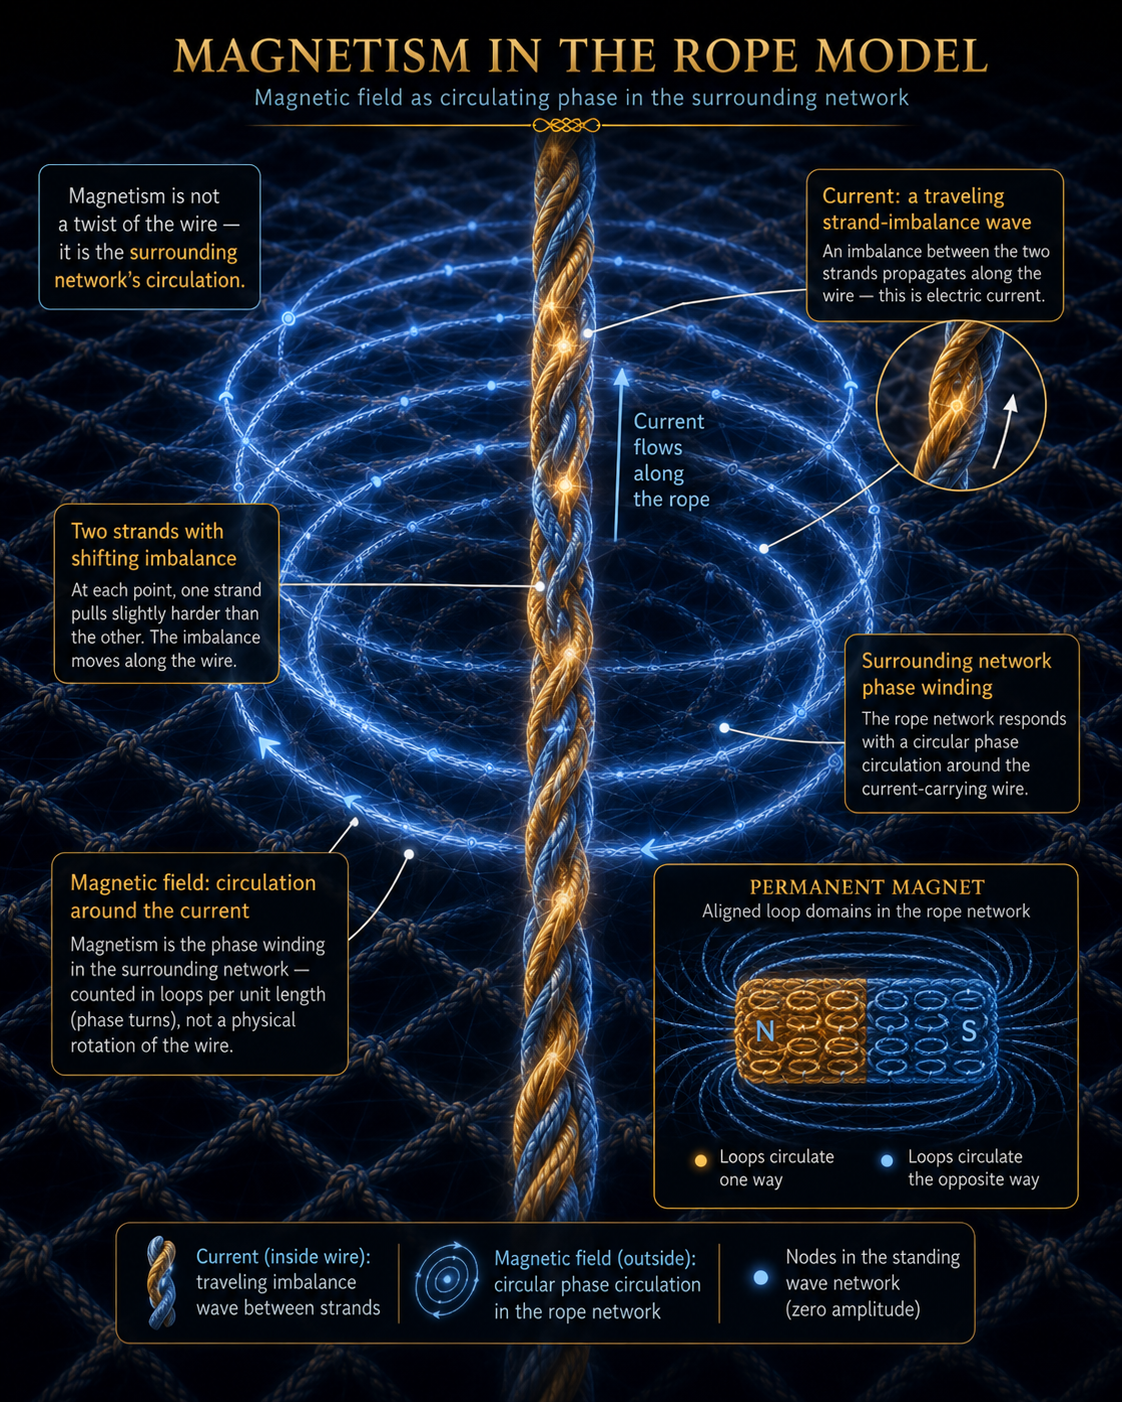
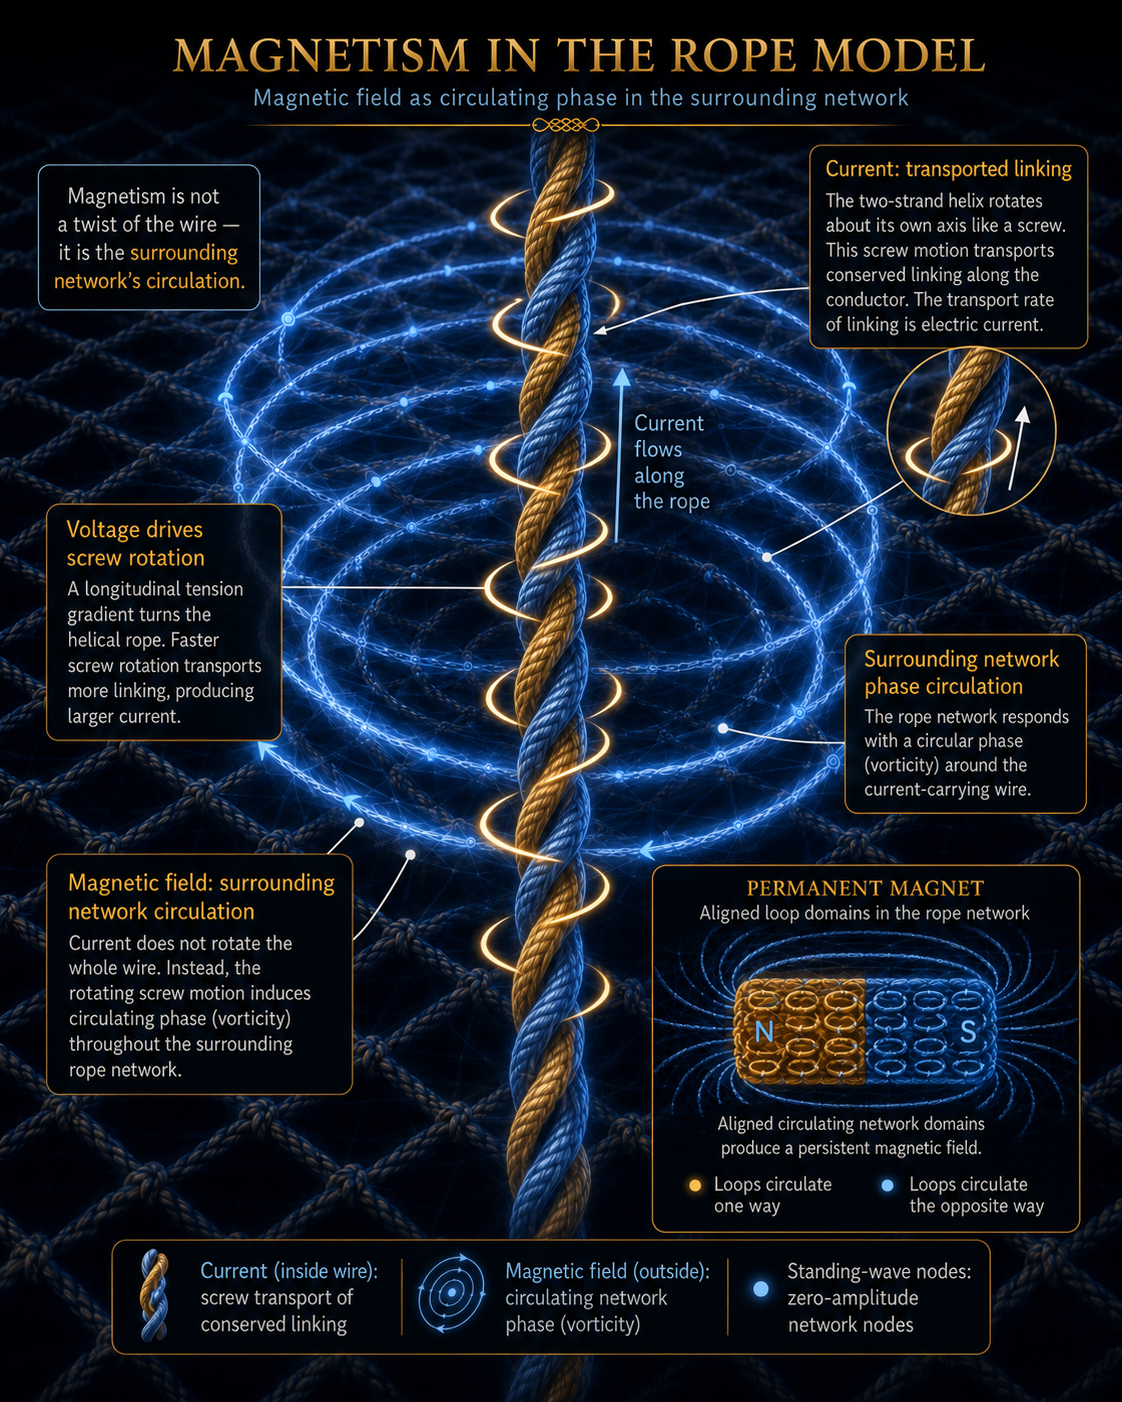
The first dynamical Bell violation, and the mechanism of the Born rule

Changed region(s): [[0.0312, 0.0307, 0.9982, 1.0], [0.8422, 0.3987, 0.9046, 0.4294], [0.3119, 0.7361, 0.3431, 0.7668]]

diff --git a/figures/README.md b/figures/README.md
@@ -12,12 +12,15 @@ screw-sense fixes circulation type and sign (not the dynamical drive). Voltage-a
 gradient and Ohm's-law framing are the sector's modeled interpretation.
 
 ## rope_magnetism.png — Magnetism as circulating phase
-Magnetic field as phase winding (loops per unit length) in the surrounding network; current as
-a traveling strand-imbalance. **Status: corpus-faithful.** Backed by **EM-012 (Derived)** and
-**EM-013 (Derived)** (magnetic force between currents and the Lorentz force, both reproduced),
-and **EM-RECON-001/002 (Modeled)** which reconcile the strand-imbalance and transported-linking
-pictures as *the same field at two levels* — the electricity and magnetism figures are those two
-levels, not a contradiction. Permanent-magnet domains are illustrative.
+Magnetic field as phase circulation (vorticity) in the surrounding network; current as the
+screw-transport of conserved linking along the two-strand helix; voltage as the tension gradient
+that drives the screw. **Status: corpus-faithful, and now grounded in the Derived layer.** This
+revision (v2) upgrades the current description from the earlier "traveling strand-imbalance"
+(reconciliation-layer, EM-RECON-001 Modeled) to "transported linking via screw rotation," landing
+directly on **EM-008 (Derived)** and **EM-014 (Derived)** — and it thereby MATCHES the electricity
+figure, so the two EM diagrams now tell one coherent story (the two levels reconciled in
+EM-RECON-001). Magnetic force and Lorentz force are EM-012/013 (Derived); the permanent-magnet
+inset is EM-RECON-002 (Modeled), illustrative.
 
 ## rope_chemistry.png — Bonds as rope-mediated interactions
 Covalent, ionic, hydrogen, and metallic bonds as tension/standing-wave patterns in the rope
@@ -72,6 +75,21 @@ proton magnetic moments are shown as EXPERIMENTAL reference values, explicitly "
 here." Scope cites PM-005 (Derived): ordinary matter, mass structure not absolute masses. Minor
 known cosmetic: the quark composition label reads "udd*" under both nucleons (proton is uud); the
 asterisk defers to the OPEN Panel 2, so it sits inside already-flagged-open territory.
+
+## rope_ladder.png — The Ladder and the Frontier (architecture map)
+The corpus's three-layer architecture in one figure: **Topological -> Geometric -> Dynamical**,
+with every sector's results placed by layer and colored by status. **Status: corpus-faithful
+architecture map, and the repository's hero image.** The load-bearing thesis it makes visible:
+the programme's derived results cluster in Layers I-II (topology and geometry), while the major
+failures and open problems -- Bell/CHSH, the Born rule, hbar, the measurement problem,
+configuration-space guidance, the absolute mass scale / electron mass, complete quantum dynamics,
+and strong-field/quantum-gravity closure -- ALL pile against one coherent line: the Layer II->III
+frontier. Audited against the registry: every placement checks out, including the split that a
+first draft got wrong -- **weak-field gravity (gamma=1, GRV-026/029, Derived) sits green in Layer
+II**, while **strong-field / quantum gravity closure sits on the frontier** (genuinely open).
+This figure is the visual statement of the candidate Layer Separation Theorem: the successes are
+not scattered, and the failures share a boundary. Generated-concept companion to
+tools/build_roadmap.py; a natural anchor for the whole corpus.
 
 ## Legacy
 - rope_em_diagram.png / _v2.png — earlier EM schematic.
